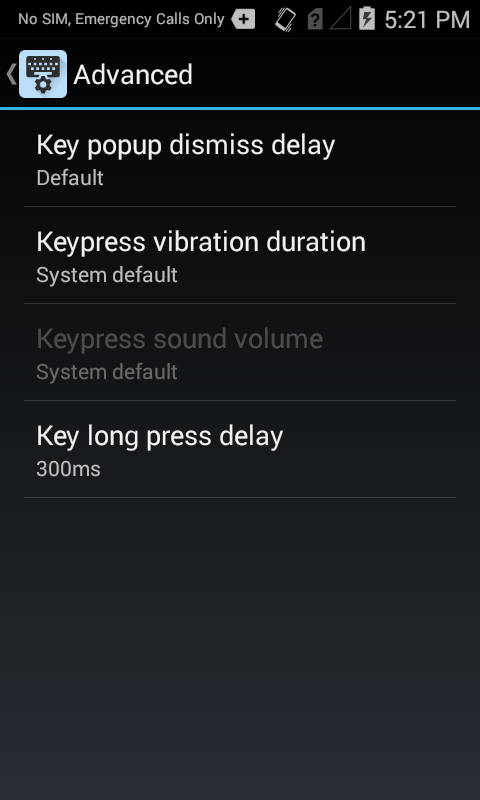
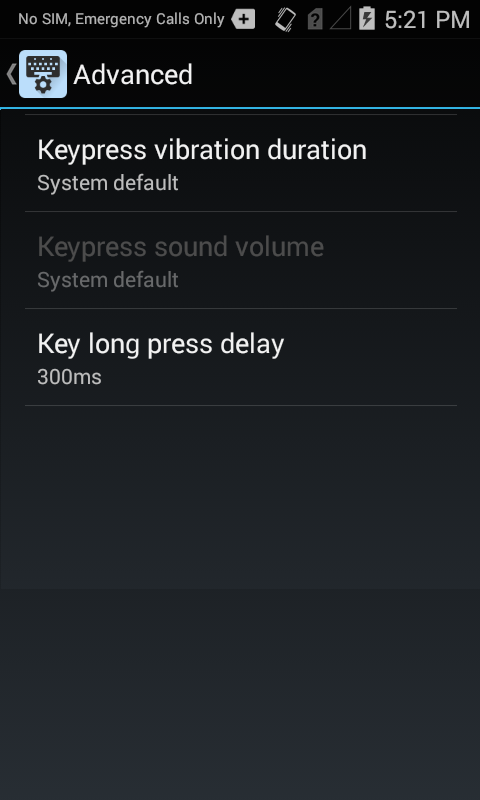
input team feedback on Settings page

diff --git a/src/enterprise-keyboard/1-0/guide/settings/index.md b/src/enterprise-keyboard/1-0/guide/settings/index.md
@@ -5,9 +5,9 @@ layout: guide.html
 
 ## Overview
 
-Enterprise Keyboard builds on the stock Android keyboard to provide a more effective means of inputting data into Zebra devices. The Zebra keyboard permits quick switching between languages, can to scan directly from the keyboard to collect data, and can set keys to perform specific tasks. It also implements finger-flicks for typing shift-key characters and swiping to switch key layouts. 
+Enterprise Keyboard builds on the stock Android keyboard to provide a more effective means of inputting data into Zebra devices. The Zebra keyboard permits quick switching between languages, can to scan directly from the keyboard to collect data, and can set keys to perform specific tasks. It also implements finger-flicks for typing long-press characters and swiping to switch key layouts. 
 
-Enterprise Keyboard adds to Android's Personal dictionary feature for spelling suggestions and corrections, giving it the ability to store industry-specific terms to help improve speed and accuracy of keyboard input. Saved terms can be mass-deployed through Zebra's Mobility Extensions (MX) and [StageNow](/stagenow/2-2/about/) tools. 
+Enterprise Keyboard uses Android's Personal dictionary feature for spelling suggestions and corrections, giving it the ability to store industry-specific terms to help improve speed and accuracy of keyboard input. Terms can saved and mass-deployed using Zebra's Mobility Extensions (MX) and [StageNow](/stagenow/2-2/about/) tools. 
 
 ## Customizing Keyboard Settings
 
@@ -41,7 +41,6 @@ To switch from the system-selected language to a language pack provided with Ent
 <img alt="" style="height:350px" src="ekb_settings_panel.png"/>
 This version of Enterprise Keyboard includes the following languages: 
 
-* Dutch
 * English (UK)
 * English (US) 
 * French
@@ -50,19 +49,21 @@ This version of Enterprise Keyboard includes the following languages:
 * Spanish
 * Russian
 
-&#50;. <b>Uncheck Use system language</b>: 
+&#50;. <b>Uncheck "Use system language" checkbox</b>: 
 <img alt="" style="height:350px" src="pref_language.png"/>
 <br>
 
-With Use system language preference unchecked, language packs become available for selection. 
+With the "Use system language" preference unchecked, language packs become available for selection. 
 
 &#51;. <b>Tap one or more languages</b> to select them: 
 <img alt="" style="height:350px" src="pref_language_2.png"/>
 <br>
 
+<!--
 Selected languages will appear in the language  menu in the Enterprise Keyboard: 
 <img alt="" style="height:350px" src="sample_2.png"/>
 <br>
+-->
 
 ------
 
@@ -82,9 +83,12 @@ The Preferences section controls keypress feedback and other aids to productivit
 
 * <b>Sound on keypress</b> plays a sound when a key is pressed. Volume is configurable in [Advanced settings](#advanced).
 
+<!--
 * <b>Popup on keypress</b> displays a pop-up of the key being pressed. A delay can be added in [Advanced settings](#advanced).
-
+-->
 * <b>Show scan tab</b> displays a tab for switching to the scanner for collecting barcode data. Scanning in Enterprise Keyboard requires [the DataWedge service](#datawedge) to be enabled on the device. 
+
+* <b>Show microphone tab</b> option will appear on GMS-enabled devices, and if checked will display a tab for allowing Enterprise Keyboard to accept spoken input using the Android mic or headset. 
 
 ------
 
@@ -120,7 +124,7 @@ The Personal dictionary can be used to store terms specific to a particular indu
 * There is no set limit on the length of terms and phrases that can be entered into the Personal dictionary.
 * Longer terms and phrases may be injected with an ellipsis (...) when displayed. 
 * Spelling suggestions do not appear with all field types.  
-* Once populated, a Personal dictionary may be mass-deployed using Zebra's [StageNow](/stagenow/2-2/about/) tool. 
+* For mass deployment, the Personal dictionary must be populated using Zebra's [StageNow](/stagenow/2-2/about/) tool before being mass-deployed. 
 
 To add a term to the Personal dictionary: 
 
@@ -158,16 +162,14 @@ To edit or delete a term:
 <br>
 
 #### Add-on dictionaries
-Add-on dictionaries by default contain a full set predefined word corrections and suggested words for each language installed on the device. As Enterprise Keyboard is used, it stores new words and patterns of frequently used words and phrases so that its word suggestions can improve over time. Those words and patterns are appended to the Add-on dictionaries according to language in use by the keyboard at the time the pattern was identified. 
-
-From this panel, user actions are limited to viewing the list of installed Add-on dictionaries and deleting individual entries. No further actions are permitted. 
+Add-on dictionaries contain predefined word corrections and suggested words for each language installed on the device. <!--As Enterprise Keyboard is used, it stores new words and patterns of frequently used words and phrases so that its word suggestions can improve over time.Those words and patterns are appended to the Add-on dictionaries according to language in use by the keyboard at the time the pattern was identified. -->From this panel, user actions are limited to viewing the list of installed Add-on dictionaries and deleting/reinstalling them. No further actions are permitted. 
 
 <img alt="" style="height:350px" src="pref_dic_addon_1.png"/>
-
+<!--
 <img alt="" style="height:350px" src="pref_dic_addon_2.png"/>
 
 <img alt="" style="height:350px" src="pref_dic_addon_3.png"/>
-
+-->
 ------
 
 ### Advanced 
@@ -176,10 +178,10 @@ The Advanced panel allows the setting of keypress feedback parameters for feedba
 <br>
 
 Tap on a setting to bring up a panel for adjusting that setting: 
-
+<!--
 <b>Key Popup dismiss delay</b> controls whether to delay when dismissing the key popup. 
 <img alt="" style="height:150px" src="adv_popup.png"/>
-<br>
+<br>-->
 
 <b>Keypress vibration duration</b> sets the length of time (from 0 to 100ms) the device will vibrate to indicate that a key was pressed (default = 0ms). 
 <img alt="" style="height:150px" src="adv_vibrate.png"/>

diff --git a/src/enterprise-keyboard/1-0/guide/about/index.md b/src/enterprise-keyboard/1-0/guide/about/index.md
@@ -53,7 +53,7 @@ The <b>Numerical tab provides sub-tabs</b> for symbol key and custom function ke
 <img alt="" style="height:150px" src="keyboard_alpha.png"/>
 
 <img alt="" style="height:150px" src="keyboard_numerical.png"/>
-_Shown here with the Emoji key (top) and other default key assignments_. 
+_Shown here with the EMOJI key (top) and other default key assignments_. 
 <br>
 
 <b>A specially designed color scheme</b> permits easy viewing indoors and out: 
